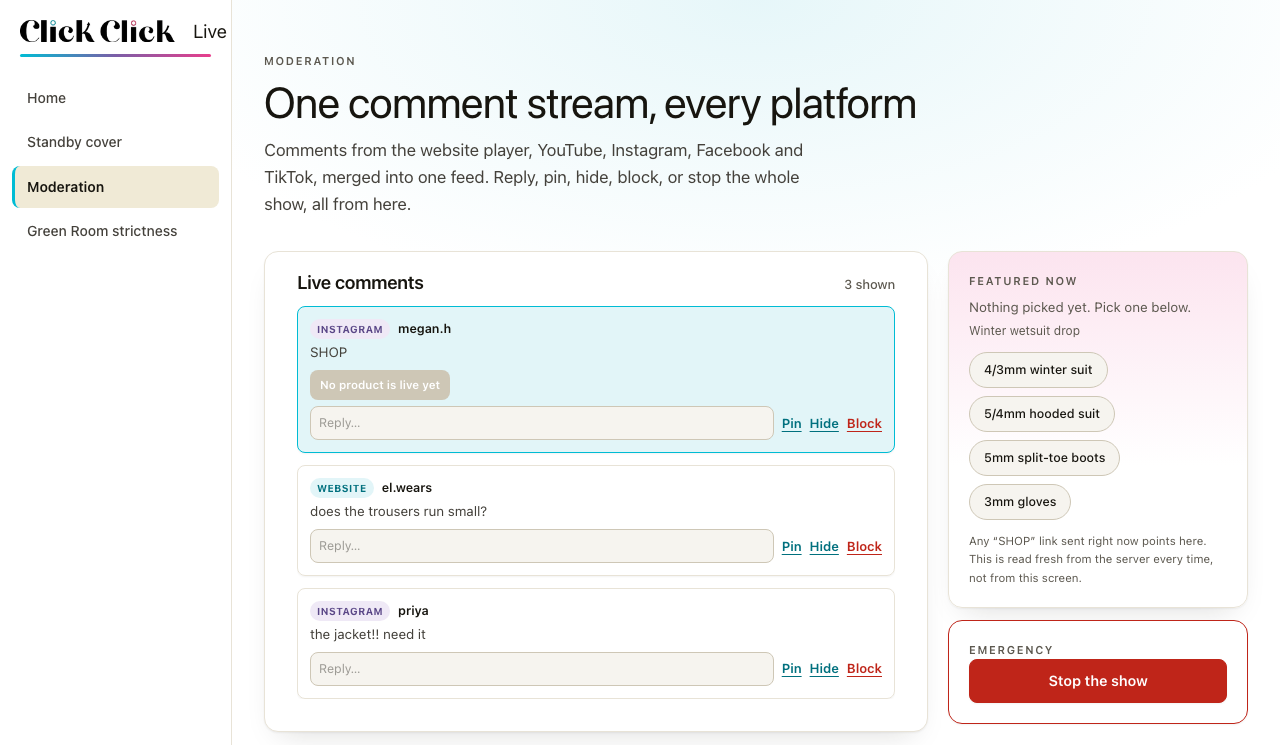
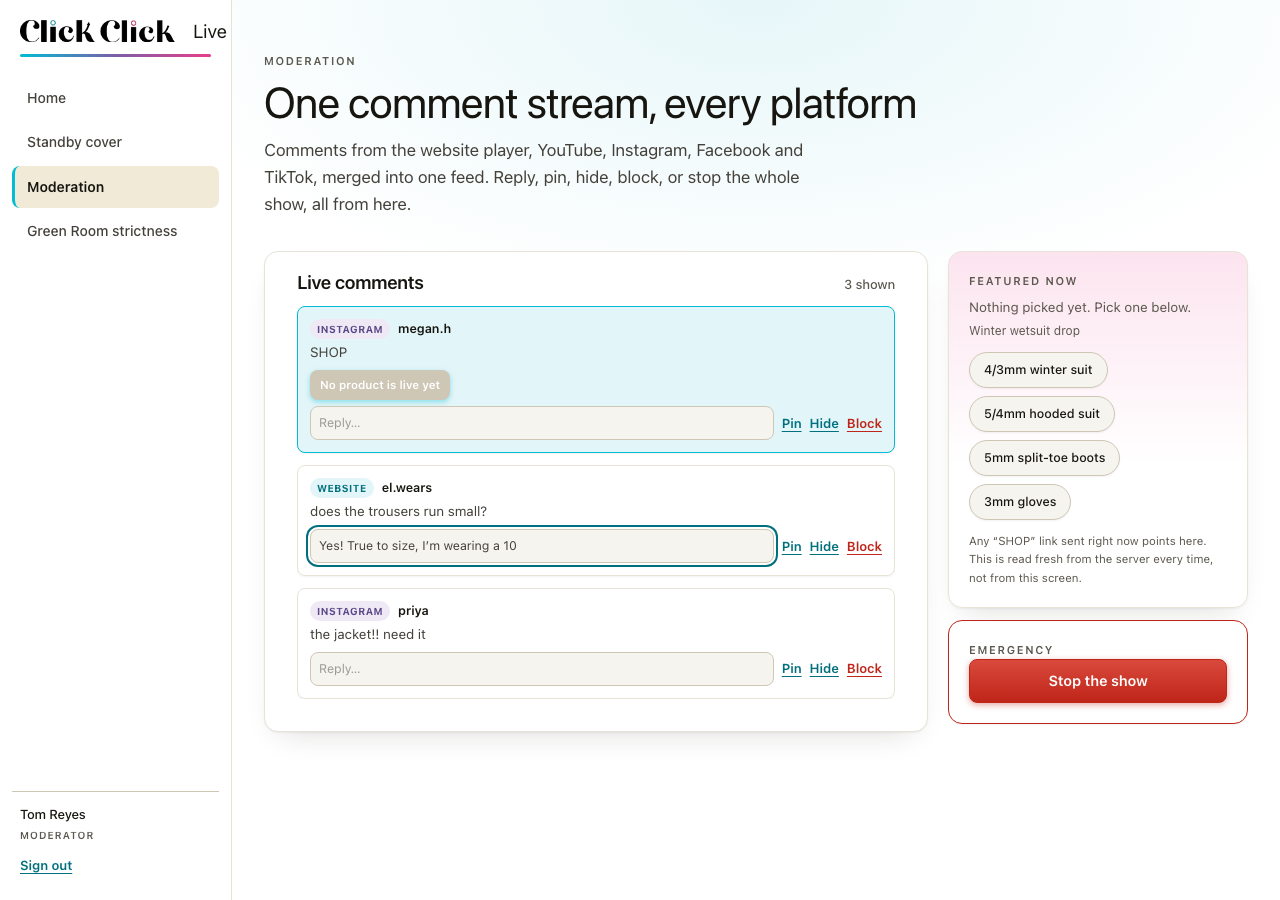
Fix screenshots showing Next.js's dev badge, simplify the shot row
- Every screenshot on the page had been captured against `next dev`,
  which stamps a small "N" indicator badge in the corner. It never
  reaches real visitors (Next strips it from production), but it was
  baked into the static images on the live marketing site. Disabled it
  outright (devIndicators: false in clickclick-live's next.config.ts)
  and recaptured every screenshot clean.
- Dropped the brand-admin-home and show-staffing screenshots per
  feedback that dashboards-with-numbers don't sell as well as seeing
  the software mid-use. Kept two: the Green Room mid-check (host on
  camera) and Moderation, now captured with a reply actually being
  typed into a real comment instead of an empty box, so it reads as
  live rather than static.
- The cost calculator's second field let visitors type any number for
  "what ClickClick Live costs," which doesn't mean anything since
  pricing isn't user-set. Replaced it with a fixed "from £350/month"
  price display; only the hiring-cost side is still editable.

diff --git a/clickclick-live/index.html b/clickclick-live/index.html
@@ -238,11 +238,6 @@
       </div>
     </div>
 
-    <figure class="doc-shot ccl-wide">
-      <img src="/assets/product/hub.png" alt="ClickClick Live's brand admin home: money in this month, shows this month, Green Room pass rate, and standby cover used, plus tiles for Overview, Shop player demo, Shows and Green Room strictness" width="1280" height="860" loading="lazy" />
-      <figcaption>The brand admin's home screen: real numbers, one click to every part of the software.</figcaption>
-    </figure>
-
     <div class="ccl-section-head">
       <h2>What the software actually does</h2>
       <p>Live commerce (also called live shopping) is selling products through live video: a host shows the products, viewers ask questions in the comments, and they buy without leaving the stream. ClickClick Live is the software that runs that show, end to end.</p>
@@ -287,12 +282,8 @@
         <figcaption>The Green Room, mid-check.</figcaption>
       </figure>
       <figure class="doc-shot">
-        <img src="/assets/product/moderation.png" alt="ClickClick Live's moderation screen: one comment stream from every platform, with pin, hide and block controls, plus a featured product panel and an emergency stop button" width="1280" height="745" loading="lazy" />
-        <figcaption>Moderation: every platform, one feed.</figcaption>
-      </figure>
-      <figure class="doc-shot">
-        <img src="/assets/product/shows.png" alt="ClickClick Live's show staffing screen: set the number of main hosts, standby hosts and moderators for a show, and pick each person by name" width="1280" height="900" loading="lazy" />
-        <figcaption>Setting who is on a show, by name.</figcaption>
+        <img src="/assets/product/moderation.png" alt="ClickClick Live's moderation screen live: a moderator typing a reply to a real comment, alongside the featured product panel and an emergency stop button" width="1280" height="745" loading="lazy" />
+        <figcaption>Moderation, live: replying to a real comment.</figcaption>
       </figure>
     </div>
 
@@ -335,15 +326,16 @@
           What a dedicated person to run your shows costs you a year (£)
           <input id="staff-cost" type="number" inputmode="numeric" min="0" step="500" value="28000" />
         </label>
-        <label>
-          What ClickClick Live costs you a year (£)
-          <input id="live-cost" type="number" inputmode="numeric" min="0" step="100" value="4200" />
-        </label>
+        <div class="cost-calc-fixed">
+          <span class="cost-calc-fixed-label">ClickClick Live, from</span>
+          <span class="cost-calc-fixed-fig">£350<span class="cost-calc-fixed-per">/month</span></span>
+          <span class="cost-calc-fixed-sub">£4,200 a year on the starting plan. More if you run extra shows.</span>
+        </div>
       </div>
       <p class="cost-calc-hint">
         £28,000 is roughly what a full-time hire costs in the UK before tax and pension go on top.
-        £4,200 is our starting plan for a year (plans start at £350 a month; more if you run extra
-        shows). Put in your own numbers.
+        The starting plan is a fixed price, not something to guess at &mdash; put in your own hiring
+        figure and we&rsquo;ll do the rest.
       </p>
       <p class="cost-calc-result" id="calc-result"></p>
     </div>
@@ -478,21 +470,19 @@
       return "£" + Math.round(n).toLocaleString("en-GB");
     }
 
+    var LIVE_STARTING_PRICE_PER_YEAR = 4200; // £350/month starting plan, fixed, not user-editable
+
     function updateCalc() {
       var staff = Number(document.getElementById("staff-cost").value) || 0;
-      var live = Number(document.getElementById("live-cost").value) || 0;
+      var live = LIVE_STARTING_PRICE_PER_YEAR;
       var el = document.getElementById("calc-result");
       if (staff <= 0) {
         el.textContent = "Type what a dedicated person would cost you.";
         return;
       }
-      if (live <= 0) {
-        el.textContent = "Type what you would pay for ClickClick Live.";
-        return;
-      }
       var gap = staff - live;
       if (gap > 0) {
-        el.textContent = "That is " + money(gap) + " a year still in the business, before a single sale from the shows.";
+        el.textContent = "That is " + money(gap) + " a year still in the business on our starting plan, before a single sale from the shows.";
       } else if (gap === 0) {
         el.textContent = "Same cost either way. The shows themselves are what tips it.";
       } else {
@@ -501,7 +491,6 @@
     }
 
     document.getElementById("staff-cost").addEventListener("input", updateCalc);
-    document.getElementById("live-cost").addEventListener("input", updateCalc);
     updateCalc();
   </script>
 </body>

diff --git a/styles.css b/styles.css
@@ -1810,7 +1810,7 @@ nav.nav--doc .nav-doc-brand img {
 
 .ccl-shot-row {
   display: grid;
-  grid-template-columns: repeat(3, 1fr);
+  grid-template-columns: repeat(2, 1fr);
   gap: 18px;
   margin: 0 0 48px;
 }
@@ -1969,6 +1969,39 @@ nav.nav--doc .nav-doc-brand img {
 .cost-calc input:focus {
   outline: 2px solid var(--turquoise);
   outline-offset: 1px;
+}
+
+.cost-calc-fixed {
+  display: flex;
+  flex-direction: column;
+  justify-content: flex-end;
+  gap: 4px;
+  padding: 12px 14px;
+  border: 1px solid rgba(0, 0, 0, 0.14);
+  border-radius: 10px;
+  background: var(--cream);
+}
+.cost-calc-fixed-label {
+  font-size: 0.85rem;
+  font-weight: 600;
+  color: var(--mid);
+}
+.cost-calc-fixed-fig {
+  font-family: var(--display);
+  font-size: 1.6rem;
+  color: #111;
+  line-height: 1.2;
+}
+.cost-calc-fixed-per {
+  font-family: var(--sans);
+  font-size: 0.85rem;
+  font-weight: 500;
+  color: var(--light);
+}
+.cost-calc-fixed-sub {
+  font-size: 0.75rem;
+  color: var(--light);
+  line-height: 1.4;
 }
 
 .cost-calc-hint {
